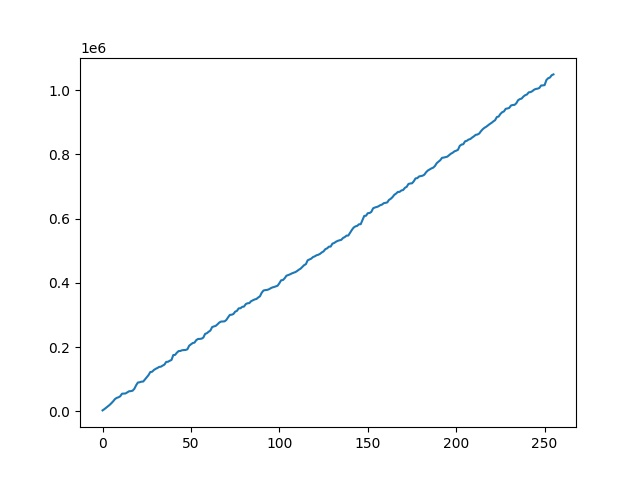
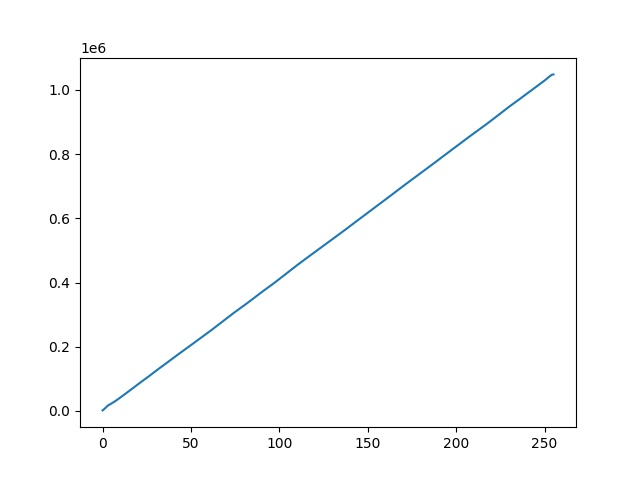
feat: сделал 4 лабораторную

diff --git a/lesson4/ImageLesson4.py b/lesson4/ImageLesson4.py
@@ -7,232 +7,72 @@ from Drivers.HistogramModelDriver import *
 class ImageLesson4:
 
     @staticmethod
+    def evaluate(image: SPDImage):
+        # Считаем гистограммы
+        histogram = HistogramModelDriver.histogram(
+            image.modified_image,
+            image.max_type_colors_count()
+        )
+        cdf = HistogramModelDriver.cdf(histogram[0])
+
+        PlotDriver.plot(histogram, image, 'original_')
+        PlotDriver.plot(cdf, image, 'original_')
+
+        # Эквализация гистограммы
+        HistogramModelDriver.equalize_image(image)
+
+        # Сохраняем итоговое изображение
+        ImageDisplayDriver.save(image)
+
+        loaded_image = SPDImage.fromFile('lesson4/', image.modified_name, '.jpg', np.uint8)
+
+        new_histogram = HistogramModelDriver.histogram(
+            loaded_image.modified_image,
+            loaded_image.max_type_colors_count()
+        )
+        new_cdf = HistogramModelDriver.cdf(new_histogram[0])
+
+        PlotDriver.plot_raw(new_histogram, 'lesson4/plots_' + image.name + '/', 'eq_' + image.name + '_hist')
+        PlotDriver.plot_raw(new_cdf, 'lesson4/plots_' + image.name + '/', 'eq_' + image.name + '_cdf')
+
+    @staticmethod
     def run():
-        # ----------------------
-        # Загружаем фото grace.jpg
-        # ----------------------
-
-        loaded_image_grace = SPDImage.fromFile('lesson4/', 'grace', '.jpg', np.uint8)
-
-        # Считаем гистограммы
-        histogram_grace = HistogramModelDriver.histogram(loaded_image_grace)
-        cdf_grace = HistogramModelDriver.cdf(histogram_grace[0], loaded_image_grace)
-
-        PlotDriver.plot(histogram_grace, loaded_image_grace, 'original_')
-        PlotDriver.plot(cdf_grace, loaded_image_grace, 'original_')
-
-        # Эквализация гистограммы
-        HistogramModelDriver.equalize_image(loaded_image_grace)
-
-        n_histogram_u0 = HistogramModelDriver.histogram(loaded_image_grace)
-        n_cdf_u0 = HistogramModelDriver.cdf(n_histogram_u0[0], loaded_image_grace)
-
-        PlotDriver.plot(n_histogram_u0, loaded_image_grace, 'eq_')
-        PlotDriver.plot(n_cdf_u0, loaded_image_grace, 'eq_')
-
-        # Сохраняем итоговое изображение
-        ImageModelDriver.grayscale(loaded_image_grace)
-        ImageDisplayDriver.save(loaded_image_grace)
 
         # ----------------------
-        # Загружаем фото c12-85v.xcr
+        # Загружаем ренгены
         # ----------------------
 
-        loaded_image_c12_85v = ReadDriver.image_binary_read(
-            'lesson4/', 'c12-85v', '.jpg', '>H', 1024, 1024, 5120
-        )
+        loaded_rengens = [
+            ReadDriver.image_binary_read(
+                'lesson4/', 'c12-85v', '.jpg', '>H', 1024, 1024, 5120
+            ),
+            ReadDriver.image_binary_read(
+                'lesson4/', 'u0', '.jpg', '>H', 2048, 2500, 5120
+            )
+        ]
 
-        # Обрабатываем
-        ImageModelDriver.rotate90(loaded_image_c12_85v)
-        ImageModelDriver.negative(loaded_image_c12_85v)
+        for image in loaded_rengens:
+            # Обрабатываем
+            ImageModelDriver.rotate90(image)
+            ImageModelDriver.negative(image)
 
-        # Считаем гистограммы
-        histogram_c12_85v = HistogramModelDriver.histogram(loaded_image_c12_85v)
-        cdf_c12_85v = HistogramModelDriver.cdf(histogram_c12_85v[0], histogram_c12_85v)
-
-        PlotDriver.plot(histogram_c12_85v, loaded_image_c12_85v, 'original_')
-        PlotDriver.plot(cdf_c12_85v, loaded_image_c12_85v, 'original_')
-
-        # Эквализация гистограммы
-        ImageModelDriver.grayscale(loaded_image_c12_85v)
-        HistogramModelDriver.equalize_image(loaded_image_c12_85v)
-
-        n_histogram_u0 = HistogramModelDriver.histogram(loaded_image_c12_85v)
-        n_cdf_u0 = HistogramModelDriver.cdf(n_histogram_u0[0], loaded_image_c12_85v)
-
-        PlotDriver.plot(n_histogram_u0, loaded_image_c12_85v, 'eq_')
-        PlotDriver.plot(n_cdf_u0, loaded_image_c12_85v, 'eq_')
-
-        # Сохраняем итоговое изображение
-        ImageModelDriver.grayscale(loaded_image_c12_85v)
-        ImageDisplayDriver.save(loaded_image_c12_85v)
+            # Считаем гистограммы
+            ImageLesson4.evaluate(image)
 
         # ----------------------
-        # Загружаем фото u0.xcr
+        # Загружаем обычные jpg
         # ----------------------
 
-        loaded_image_u0 = ReadDriver.image_binary_read(
-            'lesson4/', 'u0', '.jpg', '>H', 2048, 2500, 5120
-        )
+        loaded_jpgs = [
+            SPDImage.fromFile('lesson4/', 'photo1', '.jpg', np.uint8),
+            SPDImage.fromFile('lesson4/', 'photo2', '.jpg', np.uint8),
+            SPDImage.fromFile('lesson4/', 'photo3', '.jpg', np.uint8),
+            SPDImage.fromFile('lesson4/', 'photo4', '.jpg', np.uint8),
+            SPDImage.fromFile('lesson4/', 'grace', '.jpg', np.uint8),
+            SPDImage.fromFile('lesson4/', 'HollywoodLC', '.jpg', np.uint8)
+        ]
 
-        # Обрабатываем
-        ImageModelDriver.rotate90(loaded_image_u0)
-        ImageModelDriver.negative(loaded_image_u0)
-
-        # Считаем гистограммы
-        histogram_u0 = HistogramModelDriver.histogram(loaded_image_u0)
-        cdf_u0 = HistogramModelDriver.cdf(histogram_u0[0], histogram_u0)
-
-        PlotDriver.plot(histogram_u0, loaded_image_u0, 'original_')
-        PlotDriver.plot(cdf_u0, loaded_image_u0, 'original_')
-
-        # Эквализация гистограммы
-        ImageModelDriver.grayscale(loaded_image_u0)
-        HistogramModelDriver.equalize_image(loaded_image_u0)
-
-        n_histogram_u0 = HistogramModelDriver.histogram(loaded_image_u0)
-        n_cdf_u0 = HistogramModelDriver.cdf(n_histogram_u0[0], loaded_image_u0)
-
-        PlotDriver.plot(n_histogram_u0, loaded_image_u0, 'eq_')
-        PlotDriver.plot(n_cdf_u0, loaded_image_u0, 'eq_')
-
-        # Сохраняем итоговое изображение
-        ImageModelDriver.grayscale(loaded_image_u0)
-        ImageDisplayDriver.save(loaded_image_u0)
-
-        # ----------------------
-        # Загружаем фото photo1.jpg
-        # ----------------------
-
-        loaded_image_photo1 = SPDImage.fromFile('lesson4/', 'photo1', '.jpg', np.uint8)
-
-        # Обрабатываем
-        # Считаем гистограммы
-        histogram_photo1 = HistogramModelDriver.histogram(loaded_image_photo1)
-        cdf_photo1 = HistogramModelDriver.cdf(histogram_photo1[0], histogram_photo1)
-
-        PlotDriver.plot(histogram_photo1, loaded_image_photo1, 'original_')
-        PlotDriver.plot(cdf_photo1, loaded_image_photo1, 'original_')
-
-        # Эквализация гистограммы
-        HistogramModelDriver.equalize_image(loaded_image_photo1)
-
-        n_histogram_u0 = HistogramModelDriver.histogram(loaded_image_photo1)
-        n_cdf_u0 = HistogramModelDriver.cdf(n_histogram_u0[0], loaded_image_photo1)
-
-        PlotDriver.plot(n_histogram_u0, loaded_image_photo1, 'eq_')
-        PlotDriver.plot(n_cdf_u0, loaded_image_photo1, 'eq_')
-
-        # Сохраняем итоговое изображение
-        ImageModelDriver.grayscale(loaded_image_photo1)
-        ImageDisplayDriver.save(loaded_image_photo1)
-
-        # ----------------------
-        # Загружаем фото photo2.jpg
-        # ----------------------
-
-        loaded_image_photo2 = SPDImage.fromFile('lesson4/', 'photo2', '.jpg', np.uint8)
-
-        # Обрабатываем
-        # Считаем гистограммы
-        histogram_photo2 = HistogramModelDriver.histogram(loaded_image_photo2)
-        cdf_photo2 = HistogramModelDriver.cdf(histogram_photo2[0], histogram_photo2)
-
-        PlotDriver.plot(histogram_photo2, loaded_image_photo2, 'original_')
-        PlotDriver.plot(cdf_photo2, loaded_image_photo2, 'original_')
-
-        # Эквализация гистограммы
-        HistogramModelDriver.equalize_image(loaded_image_photo2)
-
-        n_histogram_u0 = HistogramModelDriver.histogram(loaded_image_photo2)
-        n_cdf_u0 = HistogramModelDriver.cdf(n_histogram_u0[0], loaded_image_photo2)
-
-        PlotDriver.plot(n_histogram_u0, loaded_image_photo2, 'eq_')
-        PlotDriver.plot(n_cdf_u0, loaded_image_photo2, 'eq_')
-
-        # Сохраняем итоговое изображение
-        ImageModelDriver.grayscale(loaded_image_photo2)
-        ImageDisplayDriver.save(loaded_image_photo2)
-
-        # ----------------------
-        # Загружаем фото photo3.jpg
-        # ----------------------
-
-        loaded_image_photo3 = SPDImage.fromFile('lesson4/', 'photo3', '.jpg', np.uint8)
-
-        # Обрабатываем
-        # Считаем гистограммы
-        histogram_photo3 = HistogramModelDriver.histogram(loaded_image_photo3)
-        cdf_photo3 = HistogramModelDriver.cdf(histogram_photo3[0], histogram_photo3)
-
-        PlotDriver.plot(histogram_photo3, loaded_image_photo3, 'original_')
-        PlotDriver.plot(cdf_photo3, loaded_image_photo3, 'original_')
-
-        # Эквализация гистограммы
-        HistogramModelDriver.equalize_image(loaded_image_photo3)
-
-        n_histogram_u0 = HistogramModelDriver.histogram(loaded_image_photo3)
-        n_cdf_u0 = HistogramModelDriver.cdf(n_histogram_u0[0], loaded_image_photo3)
-
-        PlotDriver.plot(n_histogram_u0, loaded_image_photo3, 'eq_')
-        PlotDriver.plot(n_cdf_u0, loaded_image_photo3, 'eq_')
-
-        # Сохраняем итоговое изображение
-        ImageModelDriver.grayscale(loaded_image_photo3)
-        ImageDisplayDriver.save(loaded_image_photo3)
-
-        # ----------------------
-        # Загружаем фото photo4.jpg
-        # ----------------------
-
-        loaded_image_photo4 = SPDImage.fromFile('lesson4/', 'photo4', '.jpg', np.uint8)
-
-        # Обрабатываем
-        # Считаем гистограммы
-        histogram_photo4 = HistogramModelDriver.histogram(loaded_image_photo4)
-        cdf_photo4 = HistogramModelDriver.cdf(histogram_photo4[0], histogram_photo4)
-
-        PlotDriver.plot(histogram_photo4, loaded_image_photo4, 'original_')
-        PlotDriver.plot(cdf_photo4, loaded_image_photo4, 'original_')
-
-        # Эквализация гистограммы
-        HistogramModelDriver.equalize_image(loaded_image_photo4)
-
-        n_histogram_u0 = HistogramModelDriver.histogram(loaded_image_photo4)
-        n_cdf_u0 = HistogramModelDriver.cdf(n_histogram_u0[0], loaded_image_photo4)
-
-        PlotDriver.plot(n_histogram_u0, loaded_image_photo4, 'eq_')
-        PlotDriver.plot(n_cdf_u0, loaded_image_photo4, 'eq_')
-
-        # Сохраняем итоговое изображение
-        ImageModelDriver.grayscale(loaded_image_photo4)
-        ImageDisplayDriver.save(loaded_image_photo4)
-
-        # ----------------------
-        # Загружаем фото HollywoodLC.jpg
-        # ----------------------
-
-        loaded_image_HollywoodLC = SPDImage.fromFile('lesson4/', 'HollywoodLC', '.jpg', np.uint8)
-
-        # Обрабатываем
-        # Считаем гистограммы
-        histogram_HollywoodLC = HistogramModelDriver.histogram(loaded_image_HollywoodLC)
-        cdf_HollywoodLC = HistogramModelDriver.cdf(histogram_HollywoodLC[0], loaded_image_HollywoodLC)
-
-        PlotDriver.plot(histogram_HollywoodLC, loaded_image_HollywoodLC, 'original_')
-        PlotDriver.plot(cdf_HollywoodLC, loaded_image_HollywoodLC, 'original_')
-
-        # Эквализация гистограммы
-        HistogramModelDriver.equalize_image(loaded_image_HollywoodLC)
-
-        n_histogram_u0 = HistogramModelDriver.histogram(loaded_image_HollywoodLC)
-        n_cdf_u0 = HistogramModelDriver.cdf(n_histogram_u0[0], loaded_image_HollywoodLC)
-
-        PlotDriver.plot(n_histogram_u0, loaded_image_HollywoodLC, 'eq_')
-        PlotDriver.plot(n_cdf_u0, loaded_image_HollywoodLC, 'eq_')
-
-        # Сохраняем итоговое изображение
-        ImageModelDriver.grayscale(loaded_image_HollywoodLC)
-        ImageDisplayDriver.save(loaded_image_HollywoodLC)
-
+        for image in loaded_jpgs:
+            # Считаем гистограммы
+            ImageLesson4.evaluate(image)
 

diff --git a/Drivers/HistogramModelDriver.py b/Drivers/HistogramModelDriver.py
@@ -1,23 +1,53 @@
 import numpy as np
 from Models.SPDImage import *
 from PIL import Image
+import numba
 
 
 class HistogramModelDriver:
 
     @staticmethod
-    def histogram(data: SPDImage) -> (list, str):
-        image_from_array = Image.fromarray(data.modified_image.astype(data.dtype))
-        return image_from_array.histogram(), '_hist'
+    @numba.jit(nopython=True)
+    def histogram(image: np.ndarray, pixel_colors_count: int) -> (np.ndarray, str):
+        h = [0] * pixel_colors_count
+        for x in range(image.shape[0]):
+            for y in range(image.shape[1]):
+                i = image[x, y]
+                h[i] = h[i] + 1
+        return np.array(h), '_hist'
 
     @staticmethod
-    def cdf(histogram, data: SPDImage) -> (list, str):
-        return np.cumsum(histogram, axis=0), '_cdf'
+    @numba.jit(nopython=True)
+    def cdf(histogram: np.ndarray) -> (np.ndarray, str):
+        h = [0] * len(histogram)
+        for x in range(len(histogram)):
+            for y in range(x + 1):
+                h[x] = h[x] + histogram[y]
+
+        return np.array(h), '_cdf'
 
     @staticmethod
-    def equalize_image(data: SPDImage):
-        histogram = HistogramModelDriver.histogram(data)[0]
-        cdf = HistogramModelDriver.cdf(histogram, data)[0]
-        image_equalized = np.interp(data.modified_image, range(0, 256), cdf)
+    @numba.jit(nopython=True)
+    def equalize_numba(image: np.ndarray, cdf: np.ndarray) -> np.ndarray:
+        new_image = image
+        cdf_min = cdf[cdf != 0].min()
 
-        data.update(image_equalized, '_cdf_normalize')
+        for x in range(image.shape[0]):
+            for y in range(image.shape[1]):
+                new_image[x, y] = round(
+                    (cdf[new_image[x, y]] - cdf_min) * 255.0 / (image.shape[0] * image.shape[1] - 1)
+                )
+
+        return new_image
+
+    @staticmethod
+    def equalize_image(image: SPDImage):
+        histogram = HistogramModelDriver.histogram(
+            image.modified_image,
+            image.max_type_colors_count()
+        )[0]
+
+        cdf = HistogramModelDriver.cdf(histogram)[0]
+        image_equalized = HistogramModelDriver.equalize_numba(image.modified_image, cdf)
+
+        image.update(image_equalized, '_cdf_normalize')

diff --git a/Drivers/PlotDriver.py b/Drivers/PlotDriver.py
@@ -18,8 +18,18 @@ class PlotDriver:
         plt.clf()
 
     @staticmethod
+    def plot_bar(data, folder: str, name: str):
+        plt.bar(list(range(0, len(data[0]))), data[0])
+
+        if not os.path.exists(folder):
+            os.makedirs(folder)
+
+        plt.savefig(folder + name + '.jpg')
+        plt.clf()
+
+    @staticmethod
     def plot_raw(data, folder: str, name: str):
-        plt.plot(data[0], data[1])
+        plt.plot(data[0])
 
         if not os.path.exists(folder):
             os.makedirs(folder)

diff --git a/Models/SPDImage.py b/Models/SPDImage.py
@@ -22,3 +22,6 @@ class SPDImage:
         self.modified_image = np.array(new_data, copy=True)
         self.counter += 1
         self.modified_name = self.name + '_' + str(self.counter) + suffix_name
+
+    def max_type_colors_count(self) -> int:
+        return np.iinfo(self.dtype).max + 1

diff --git a/main.py b/main.py
@@ -7,5 +7,5 @@ from lesson5.ImageLesson5 import *
 # ImageLesson1.run()
 # ImageLesson2.run()
 # ImageLesson3.run()
-# ImageLesson4.run()
-ImageLesson5.run()
+ImageLesson4.run()
+# ImageLesson5.run()
